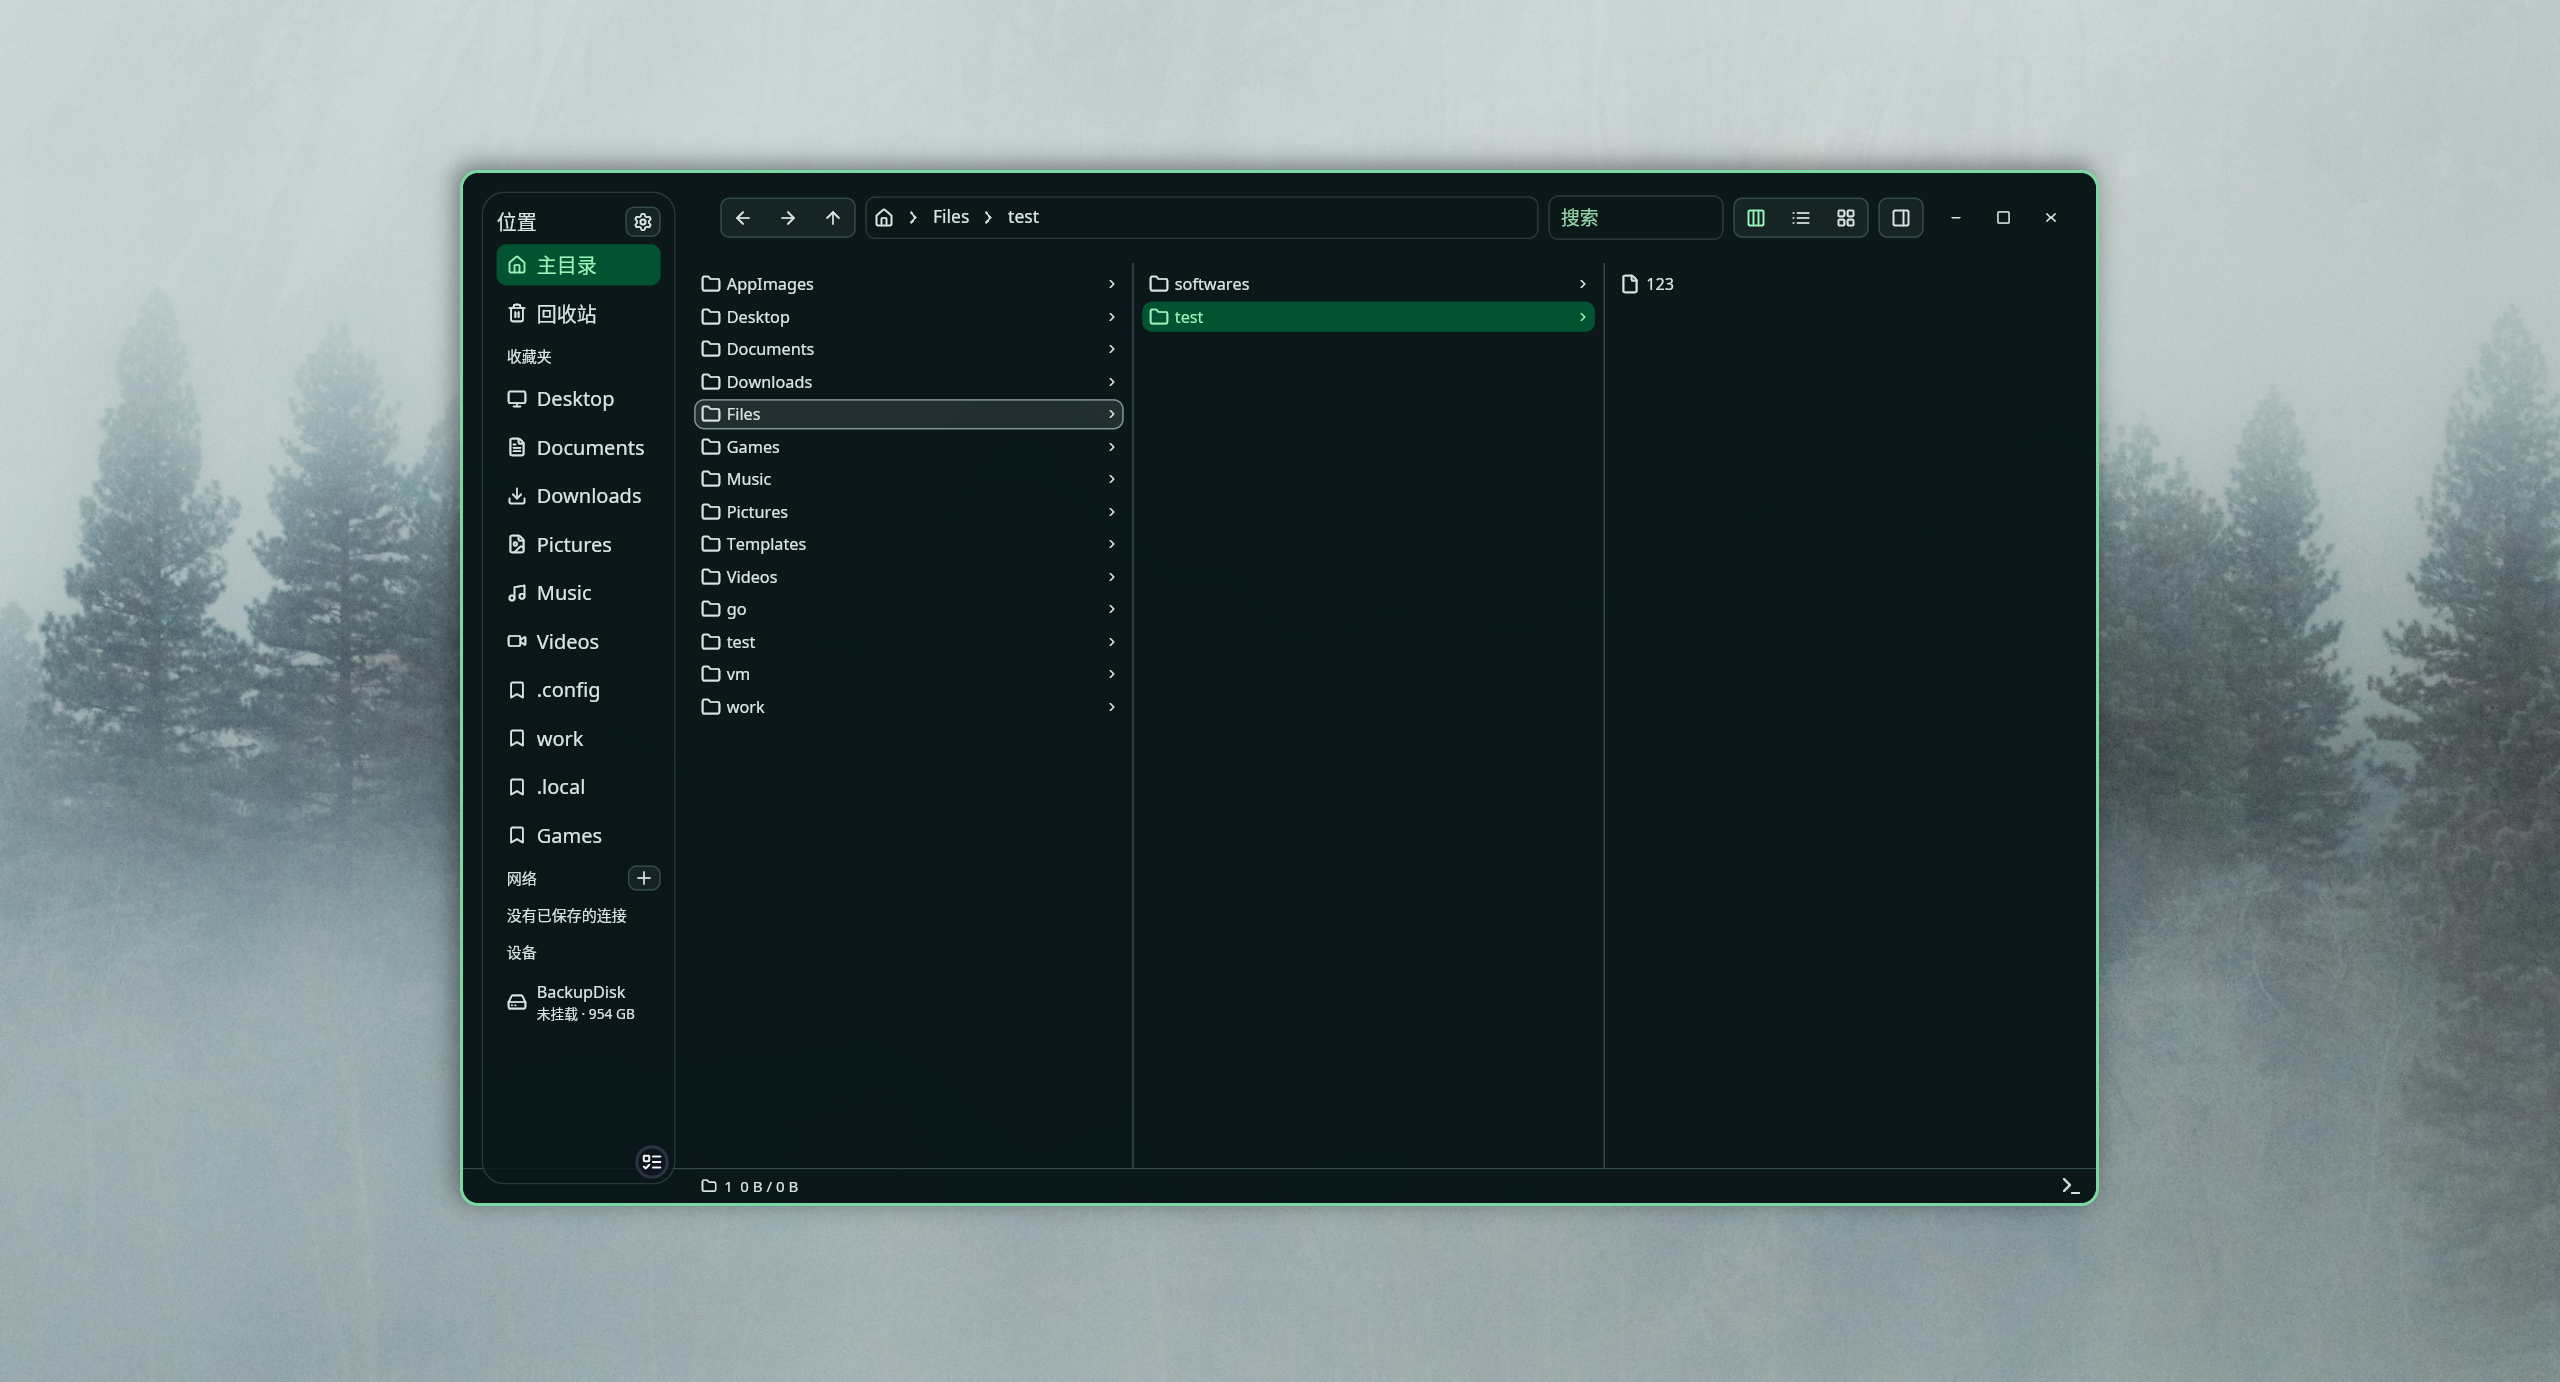
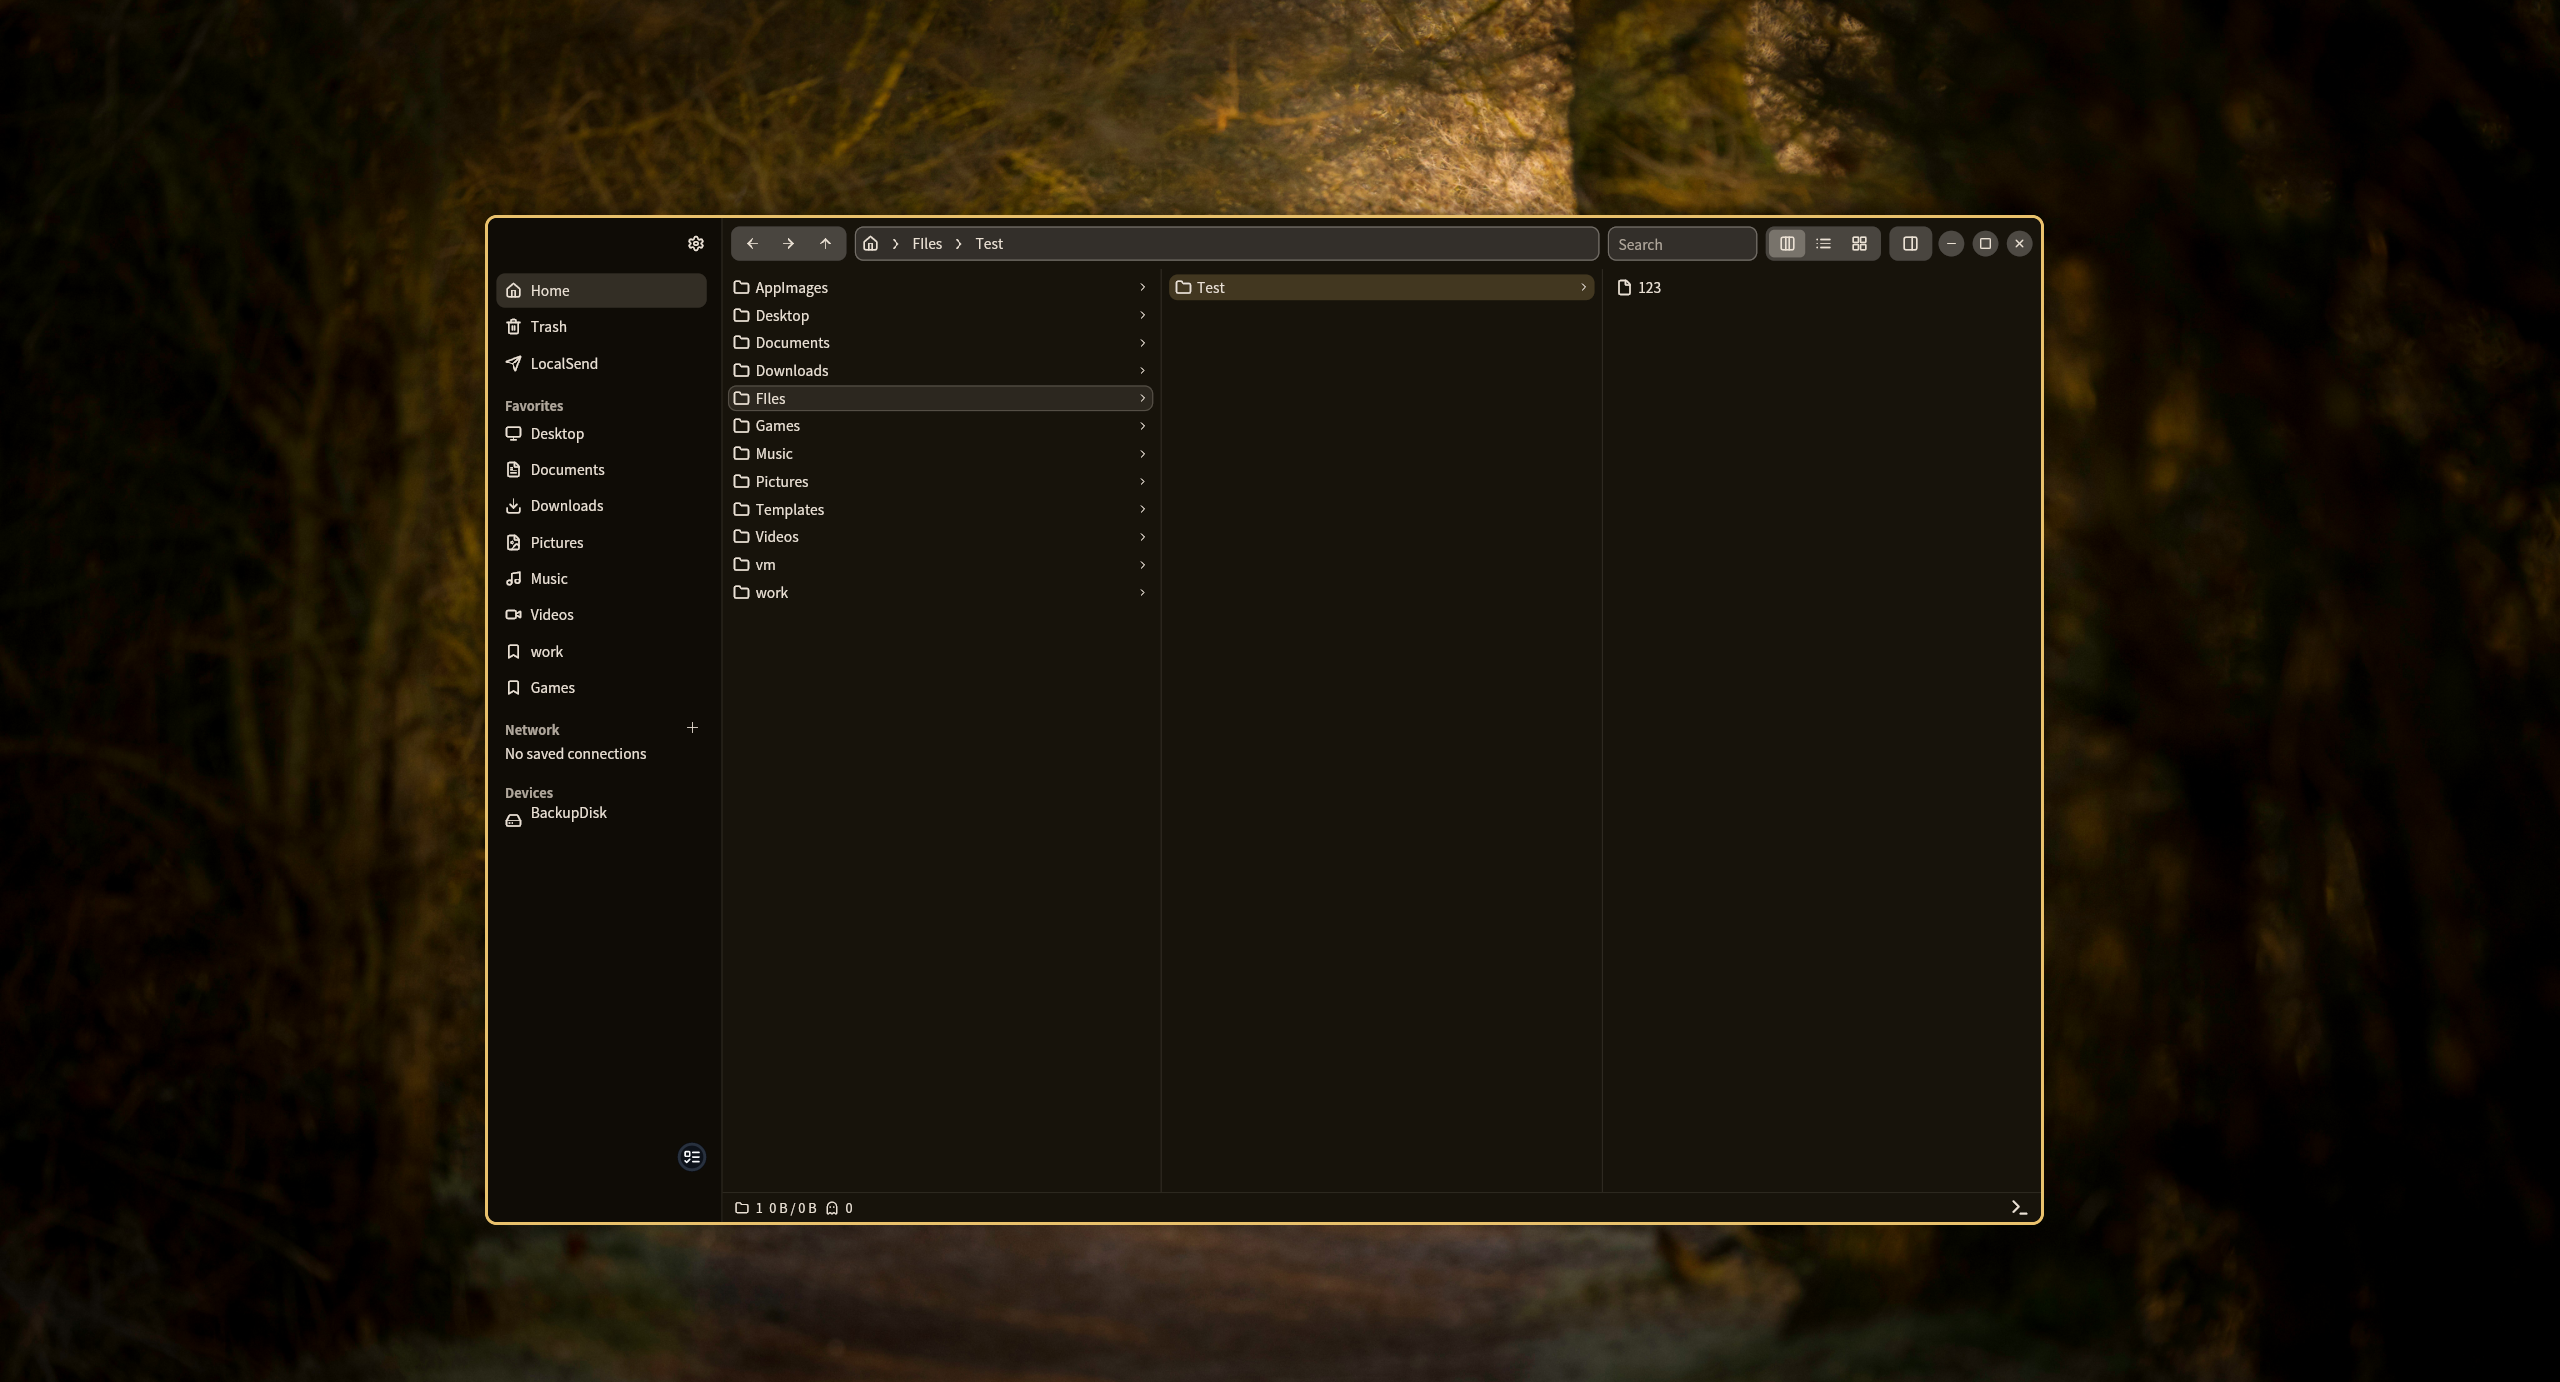
docs(readme): new screenshots after the visual overhaul
The columns, list, grid, preview and appearance shots are retaken with
the new header bars, controls and wallpaper colors, and a LocalSend
window shot joins the appearance one in the last row.

diff --git a/README.md b/README.md
@@ -30,8 +30,9 @@ Developed and tested mainly on Wayland.
 
 <p align="center">
   <img src="docs/images/appearance.png" alt="Themes & color schemes" width="49%">
+  <img src="docs/images/localsend.png" alt="LocalSend" width="49%">
 </p>
-<p align="center"><b>Themes &amp; color schemes</b></p>
+<p align="center"><b>Themes &amp; color schemes</b> · <b>LocalSend</b></p>
 
 ## Features
 

diff --git a/README.zh-CN.md b/README.zh-CN.md
@@ -30,8 +30,9 @@
 
 <p align="center">
   <img src="docs/images/appearance.png" alt="外观与配色" width="49%">
+  <img src="docs/images/localsend.png" alt="LocalSend 互传" width="49%">
 </p>
-<p align="center"><b>外观与配色</b></p>
+<p align="center"><b>外观与配色</b> · <b>LocalSend 互传</b></p>
 
 ## 功能亮点
 
